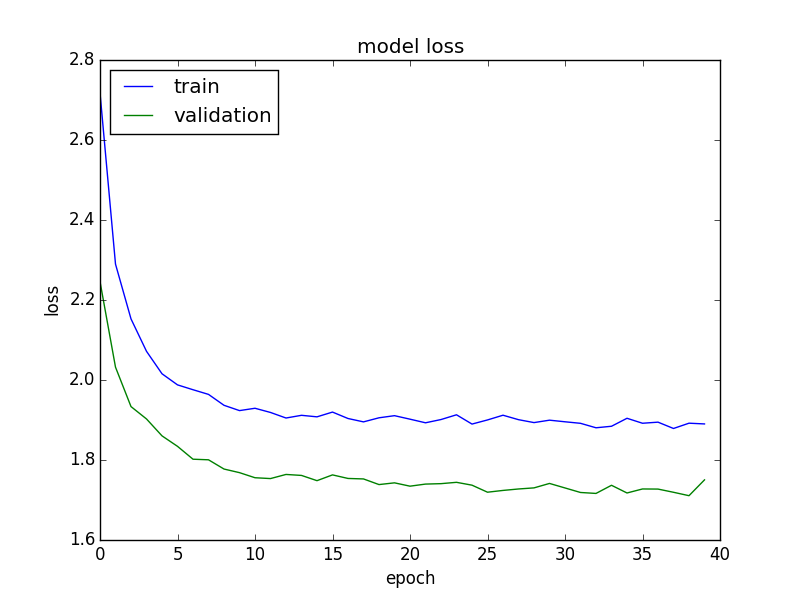
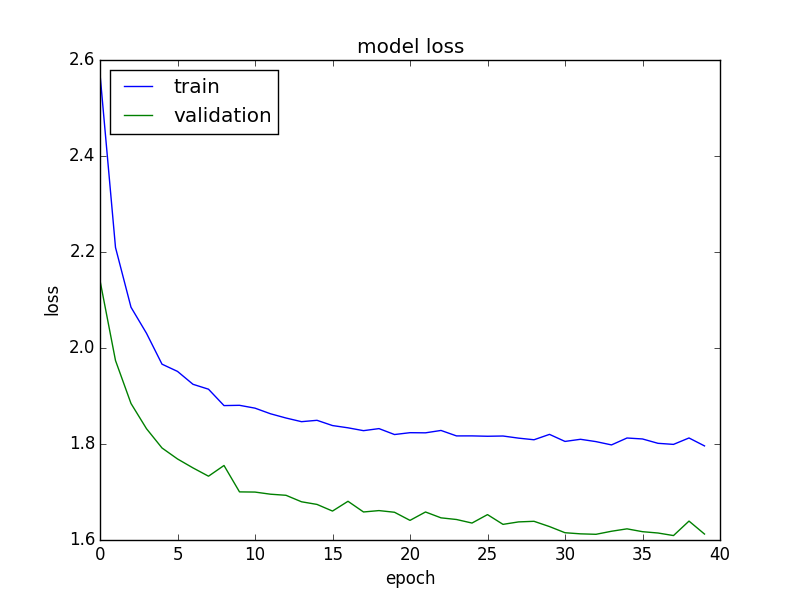
Experimento con 100% de dataset de train y una capa convolucional.

diff --git a/ex3b_convnet_1conv/ex3b_convnet_1conv.py b/ex3b_convnet_1conv/ex3b_convnet_1conv.py
@@ -89,6 +89,7 @@ model.add(Convolution2D(nb_filters, kernel_size[0], kernel_size[1],
                         border_mode='valid',
                         input_shape=input_shape))
 model.add(Activation('relu'))
+model.add(MaxPooling2D(pool_size=pool_size))
 model.add(Dropout(0.25))
 
 model.add(Flatten())
